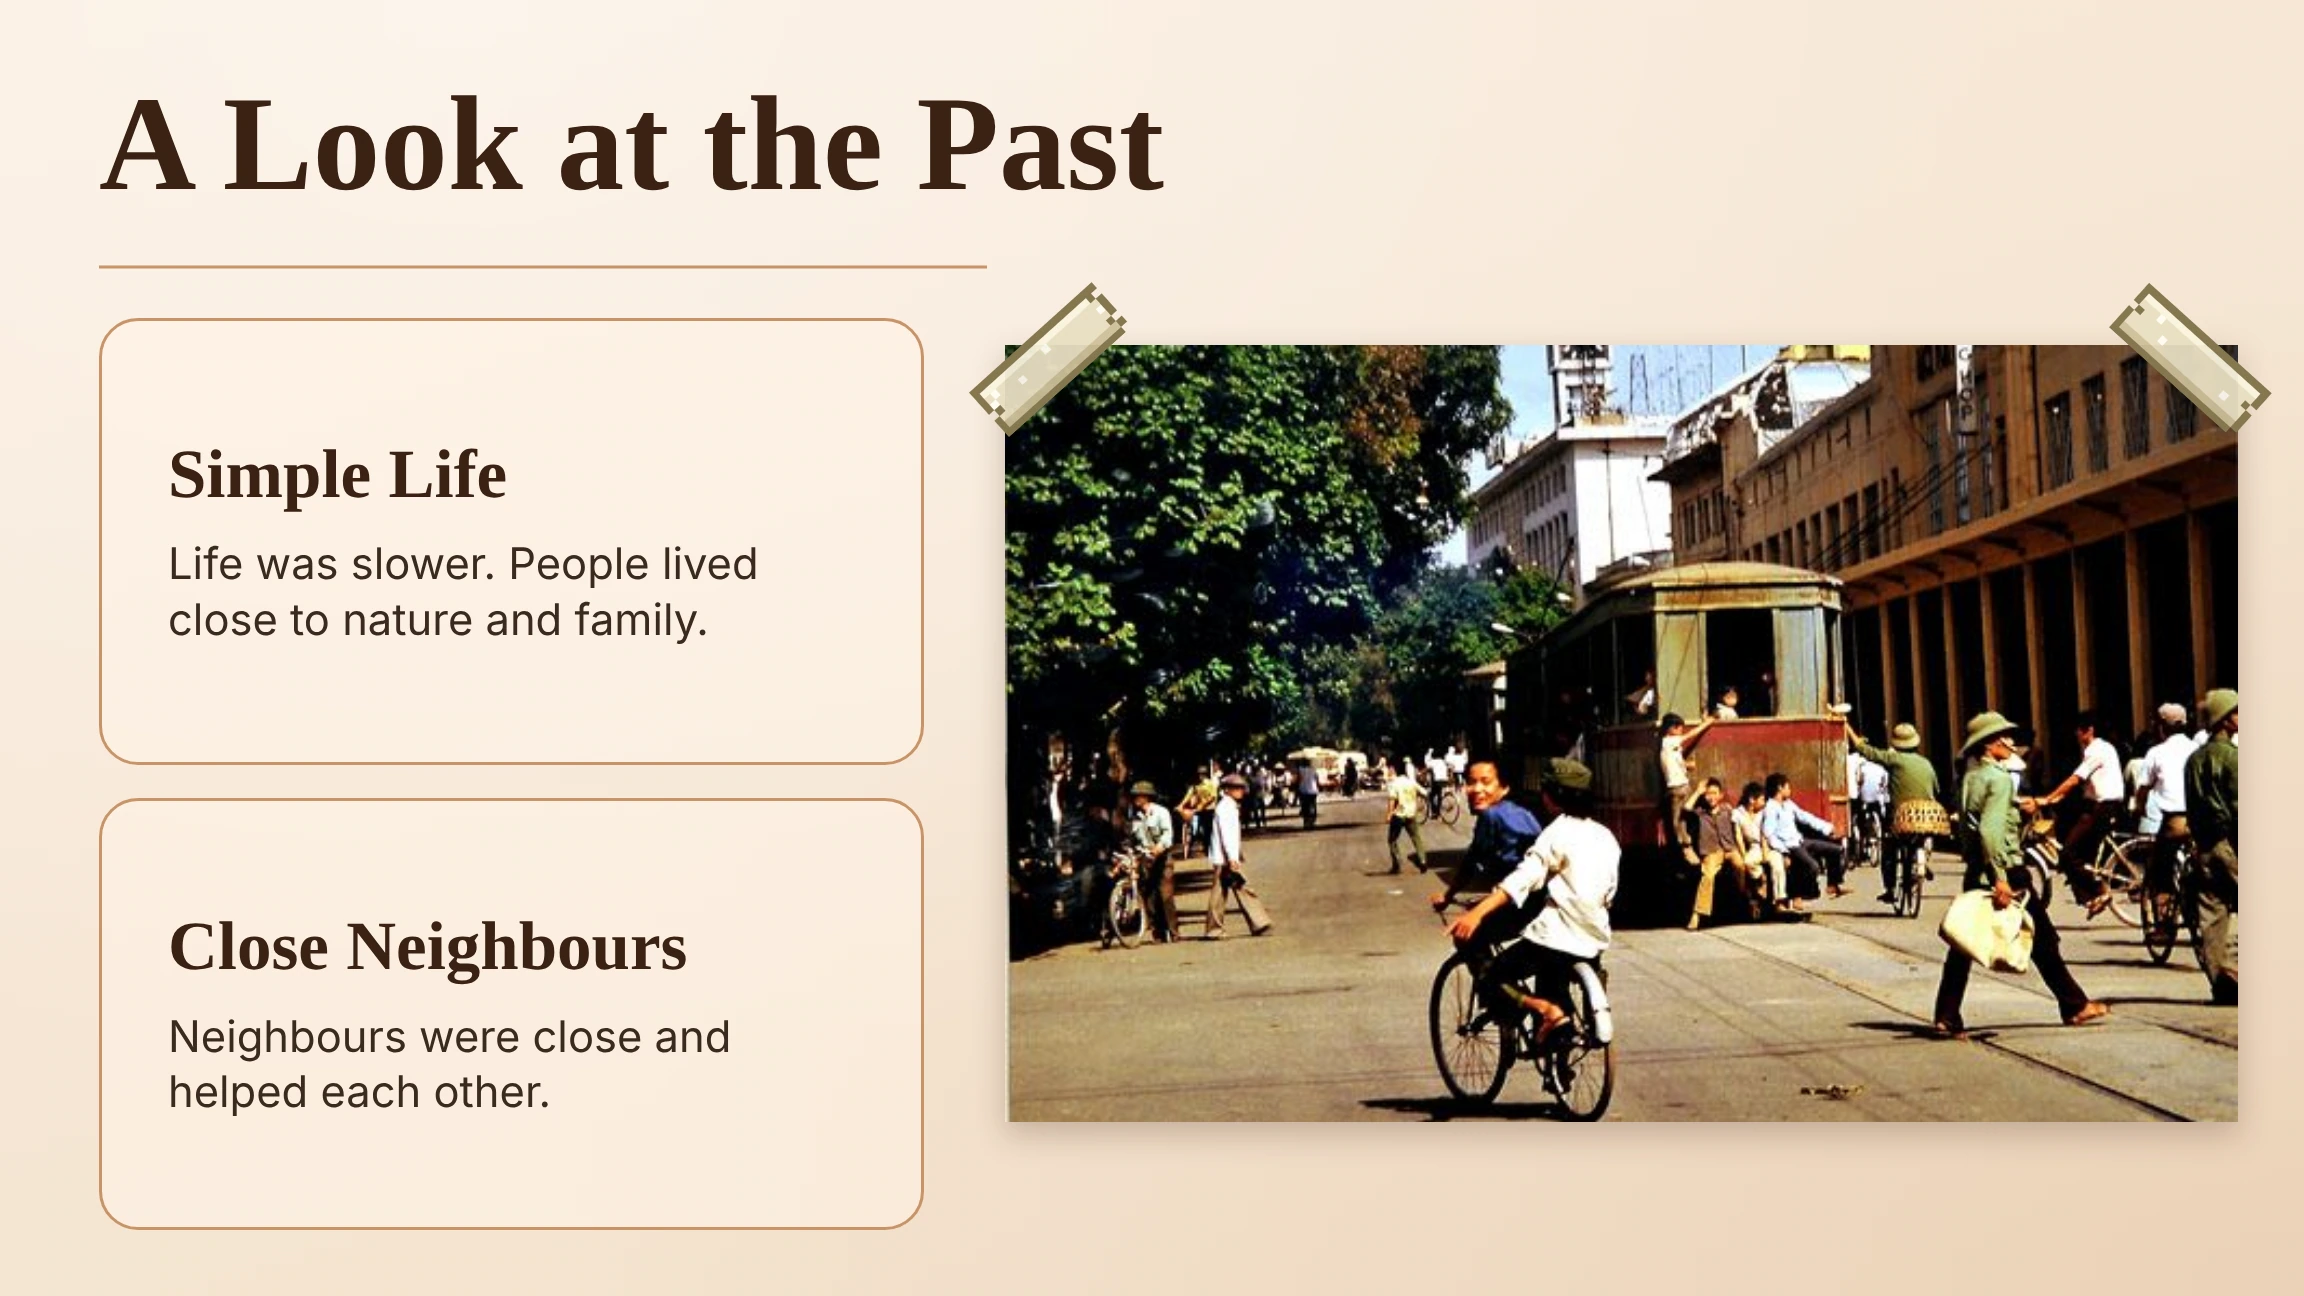
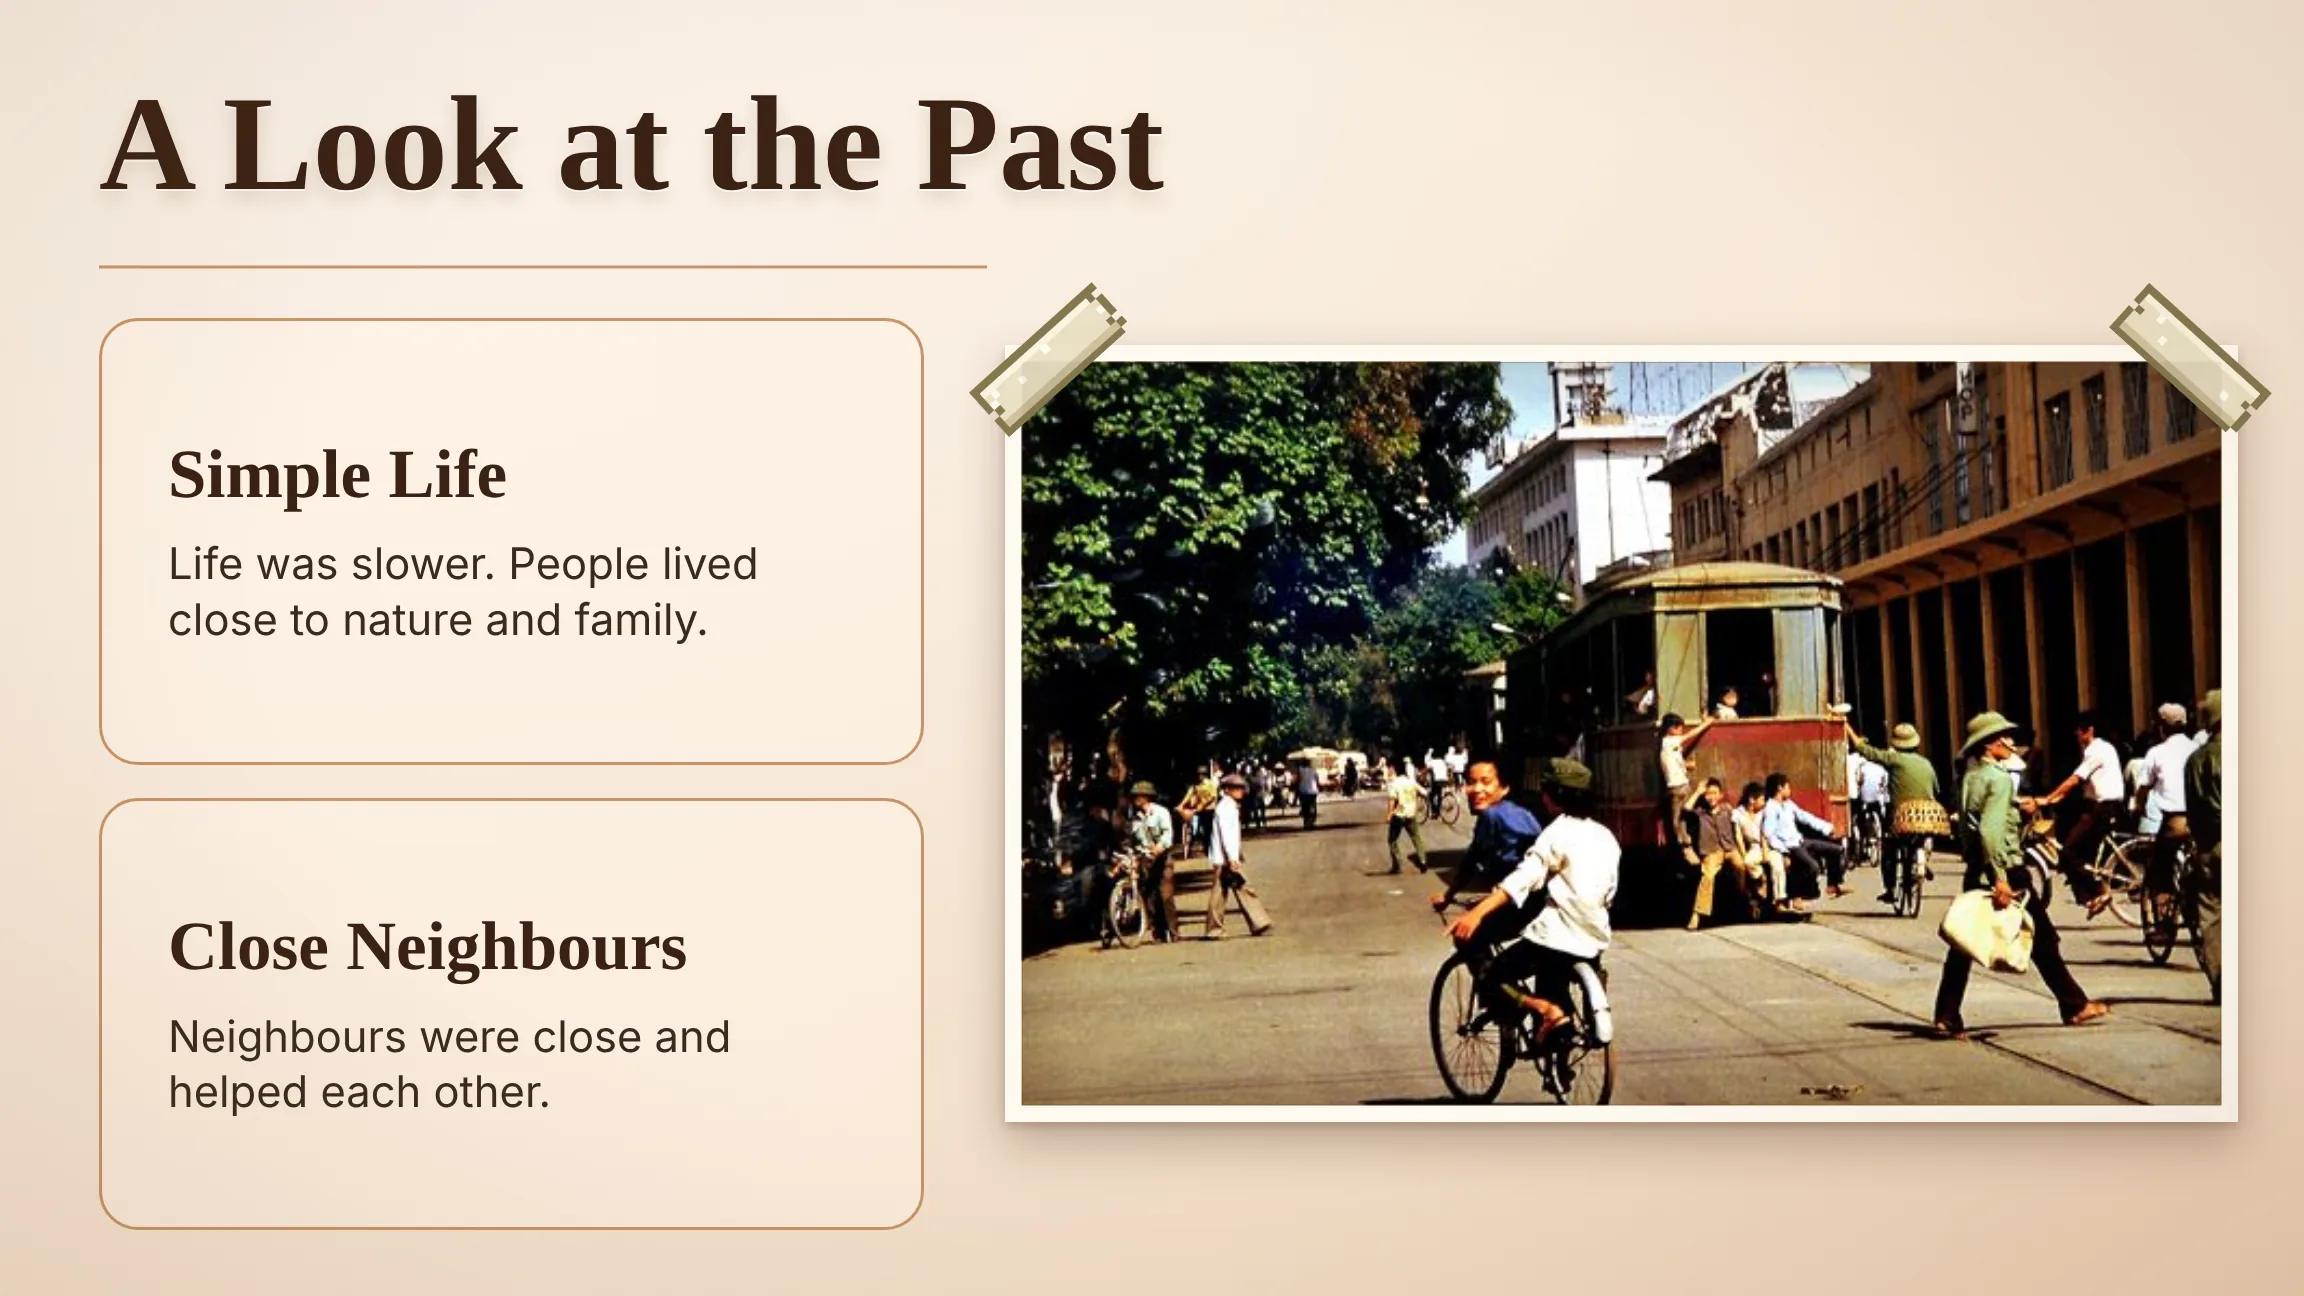
Music: Snowy only on slide-selection (paused when a slide opens, so no double music / no leak on battery-dead); slide 3 graphics polish (printed photo border, vignette, embossed title)
Claude-Session: https://claude.ai/code/session_015dETkK63Reb6JNnJAvDzmD

diff --git a/index.html b/index.html
@@ -328,7 +328,7 @@
   <script>
     // ================= CẤU HÌNH =================
     const slideImages = [
-      'slide1.webp?v=1118', 'slide2.webp?v=1118', 'slide3.webp?v=1118', 'slide4.webp?v=1118', 'slide5.webp?v=1118',
+      'slide1.webp?v=1118', 'slide2.webp?v=1118', 'slide3.webp?v=1124', 'slide4.webp?v=1118', 'slide5.webp?v=1118',
       'slide6.webp?v=1118', 'slide7.webp?v=1118', 'slide8.webp?v=1118', 'slide9.webp?v=1118', 'slide10.webp?v=1118'
     ];
     // Thông tin hiển thị khi mở từng slide: sửa title / desc ở đây
@@ -1435,7 +1435,7 @@
       return true;
     }
     // Slide có bản động (iframe phủ lên): slide 2 (cọ sơn + bút chì vẽ), slide 3 (gió + keo dán), slide 4 (phố xe đạp), slide 5 (bếp), slide 6 (giếng + mất điện), slide 7 (làng quê), slide 10 (cảnh kết: ghế, sân khấu, pháo hoa)
-    const ANIM_SRC = { 0: 'slide1-anim.html?embed', 1: 'slide2-anim.html?embed&v=1122', 2: 'slide3-anim.html?embed&v=1122', 3: 'slide4-anim.html?embed&v=1118', 4: 'slide5-anim.html?embed', 5: 'slide6-anim.html?embed&v=1118', 6: 'slide7-anim.html?embed&v=1118', 7: 'slide8-anim.html?embed', 8: 'slide9-anim.html?embed', 9: 'slide10-anim.html?embed&v=20261124a' };
+    const ANIM_SRC = { 0: 'slide1-anim.html?embed', 1: 'slide2-anim.html?embed&v=1122', 2: 'slide3-anim.html?embed&v=1124', 3: 'slide4-anim.html?embed&v=1118', 4: 'slide5-anim.html?embed', 5: 'slide6-anim.html?embed&v=1118', 6: 'slide7-anim.html?embed&v=1118', 7: 'slide8-anim.html?embed', 8: 'slide9-anim.html?embed', 9: 'slide10-anim.html?embed&v=20261124a' };
     const BLANK_SLIDE = 'assets/anim-blank.png';            // nền đen cho slide 2 lúc chưa vẽ
     const START_IMG = { 3: 'slide4-s.webp?v=1118', 4: 'slide5-s.webp?v=1118', 5: 'slide6-s.webp?v=1118', 6: 'slide7-s.webp?v=1118', 7: 'slide8-s.webp?v=1118', 8: 'slide9-s.webp?v=1118' };   // khung ĐẦU của hoạt ảnh: ảnh tĩnh lúc vào slide khớp với khung đầu của iframe -> không bị giật khi hoạt ảnh bắt đầu
     const slidePath = (i) => (i === 2 || i === 9) ? BLANK_SLIDE : (START_IMG[i] || slideImages[i]);   // slide 2 và 10 (cảnh kết) bắt đầu từ nền đen
@@ -1603,6 +1603,7 @@
 
     // Mở slide đã phóng toàn màn hình: xem thông tin, Backspace để về danh sách
     function openSlide(i) {
+      musicPause();                        // chỉ có nhạc Snowy ở màn chọn slide; vào slide rồi thì tắt để không chồng nhạc của slide
       currentIndex = i;
       if (ANIM_SRC[i]) {                   // slide 2, 3: mở bản động
         animState = GATED.has(i) ? 'loading' : null; if (!GATED.has(i)) ambStart(i);      // slide có màn đen chờ click: âm thanh chỉ bắt đầu khi hình bắt đầu vẽ

diff --git a/slides.css b/slides.css
@@ -131,3 +131,11 @@ img.photo { object-fit: cover; }
 .s10 .rule { left: 424px; right: 419px; top: 421px; border-top: 3px solid #c98a4d; }
 .s10 h2 { left: 0; right: 0; top: 436px; text-align: center; font: 500 50px/1.2 var(--display); color: #2f2b27; }
 .s10 p  { left: 0; right: 0; top: 500px; text-align: center; font: 400 29px/1.3 var(--display); color: #2f2b27; letter-spacing: .5px; }
+
+/* ===== slide 3 "A Look at the Past": nâng nhẹ đồ hoạ (viền ảnh in, vignette ấm, chữ nổi nhẹ) ===== */
+.s3::before { content: ''; position: absolute; inset: 0; pointer-events: none; z-index: 1;
+  background: radial-gradient(ellipse at 50% 46%, rgba(255,255,255,0) 55%, rgba(120,70,30,.13) 100%); }
+.s3 .title { text-shadow: 0 1px 0 rgba(255,255,255,.75), 0 5px 12px rgba(90,45,15,.16); }
+.s3 .pic .photo { box-shadow: 0 14px 30px rgba(60,30,10,.30), 0 3px 6px rgba(60,30,10,.2); }
+.s3 .pic .photo::after { content: ''; position: absolute; inset: 0; pointer-events: none;
+  border: 11px solid #fffaf0; box-shadow: inset 0 0 0 1px rgba(120,80,40,.35), inset 0 0 46px rgba(50,25,5,.30); }

diff --git a/slide3-anim.html b/slide3-anim.html
@@ -7,7 +7,7 @@
   <link rel="preconnect" href="https://fonts.googleapis.com">
   <link rel="preconnect" href="https://fonts.gstatic.com" crossorigin>
   <link href="https://fonts.googleapis.com/css2?family=Tinos:wght@400;700&family=Public+Sans:wght@400;500&display=swap" rel="stylesheet">
-  <link rel="stylesheet" href="slides.css">
+  <link rel="stylesheet" href="slides.css?v=1124">
   <style>
     html, body { background: #050505; }
     .deck { visibility: hidden; }
